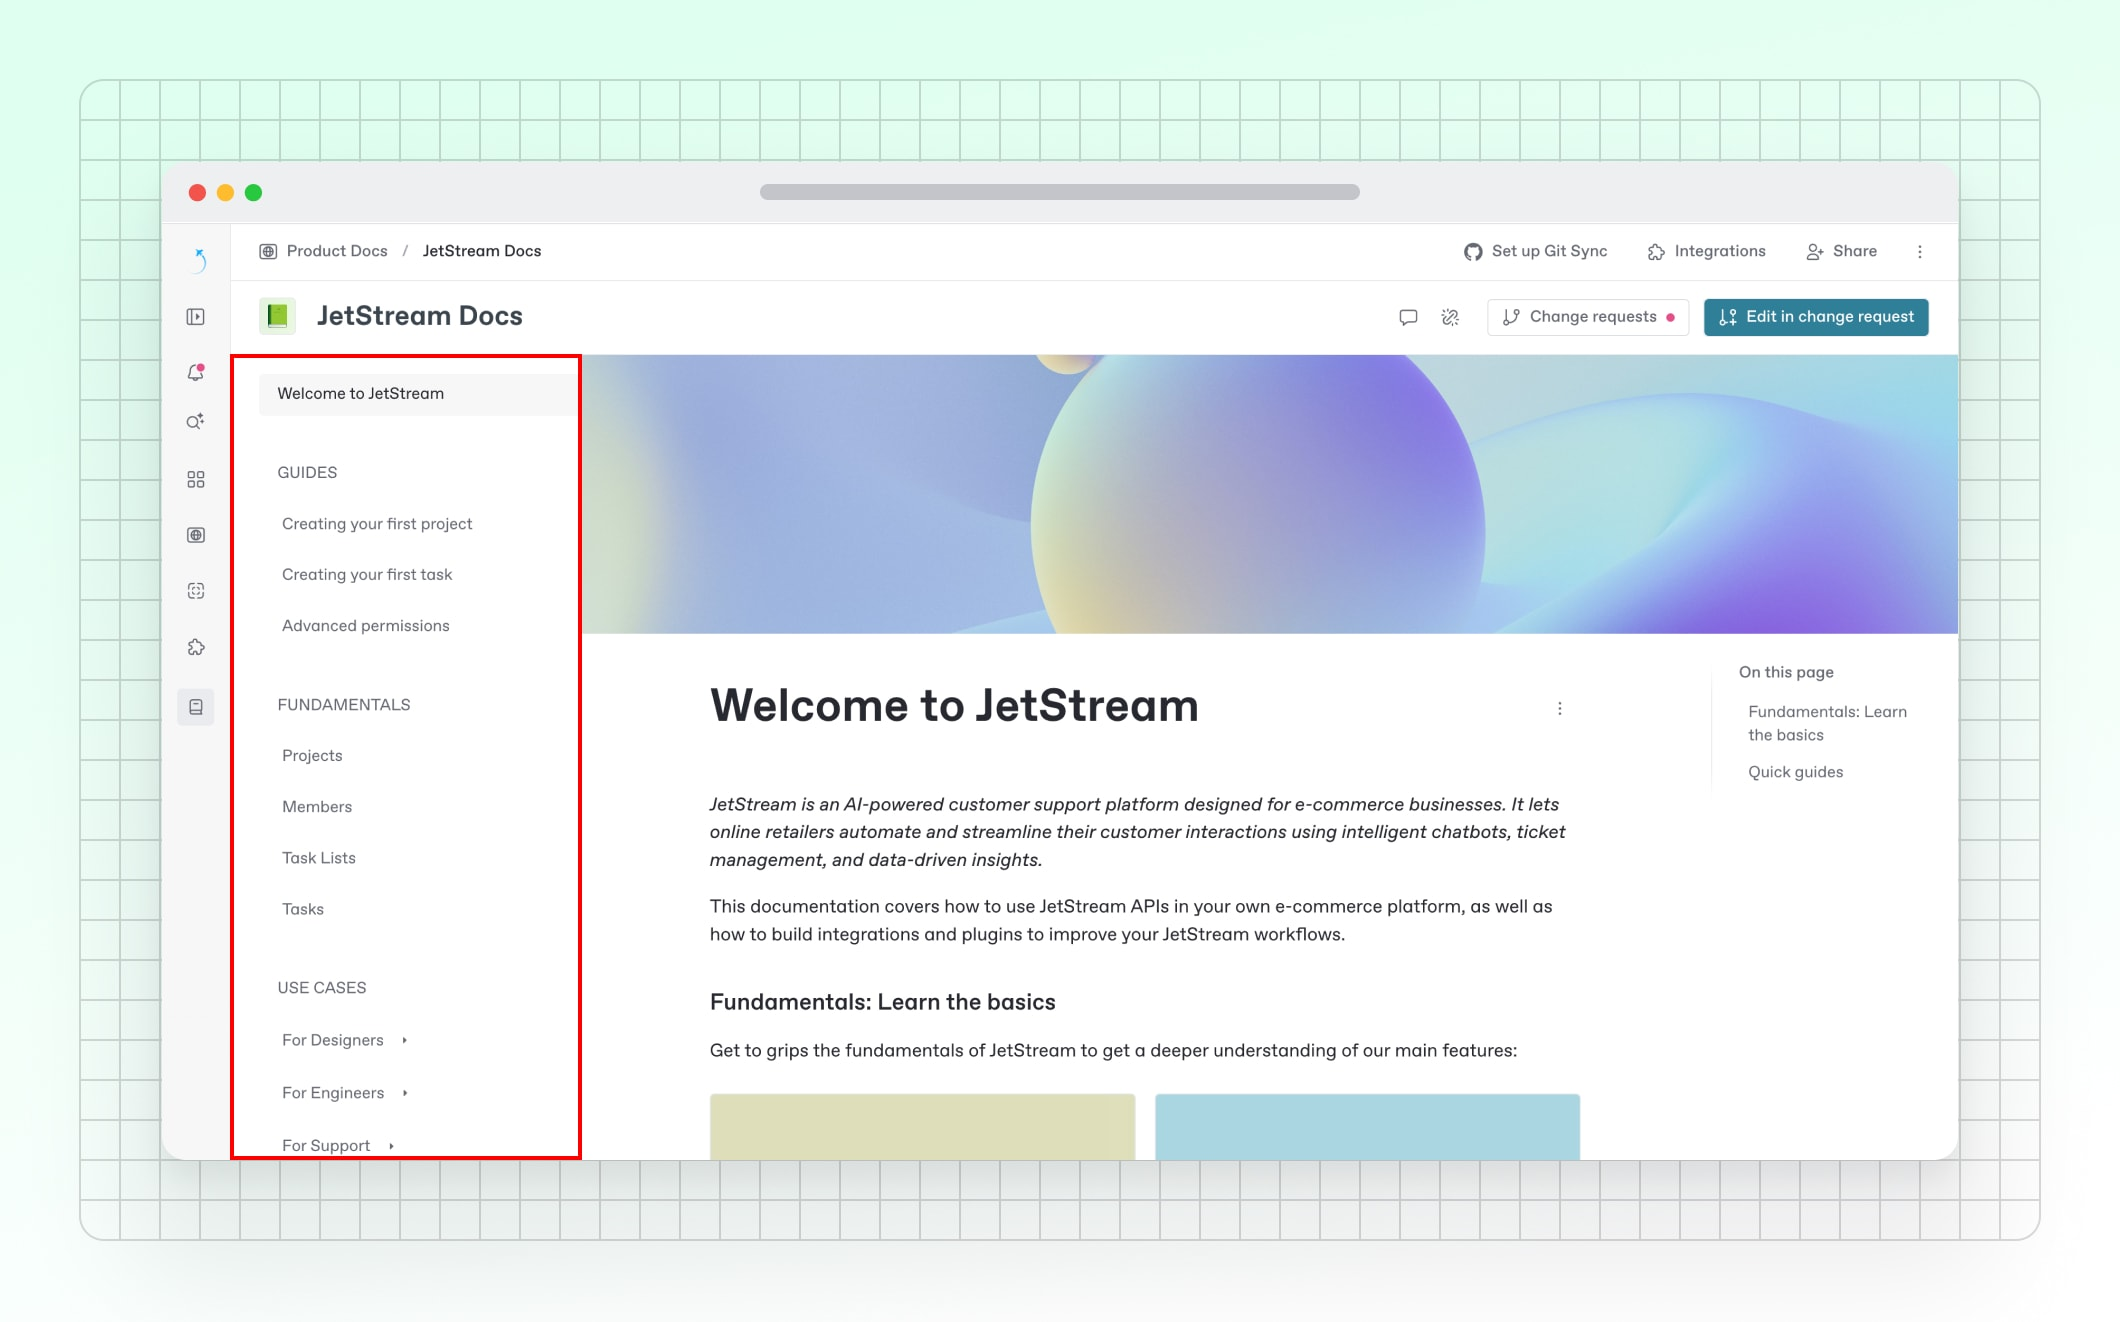
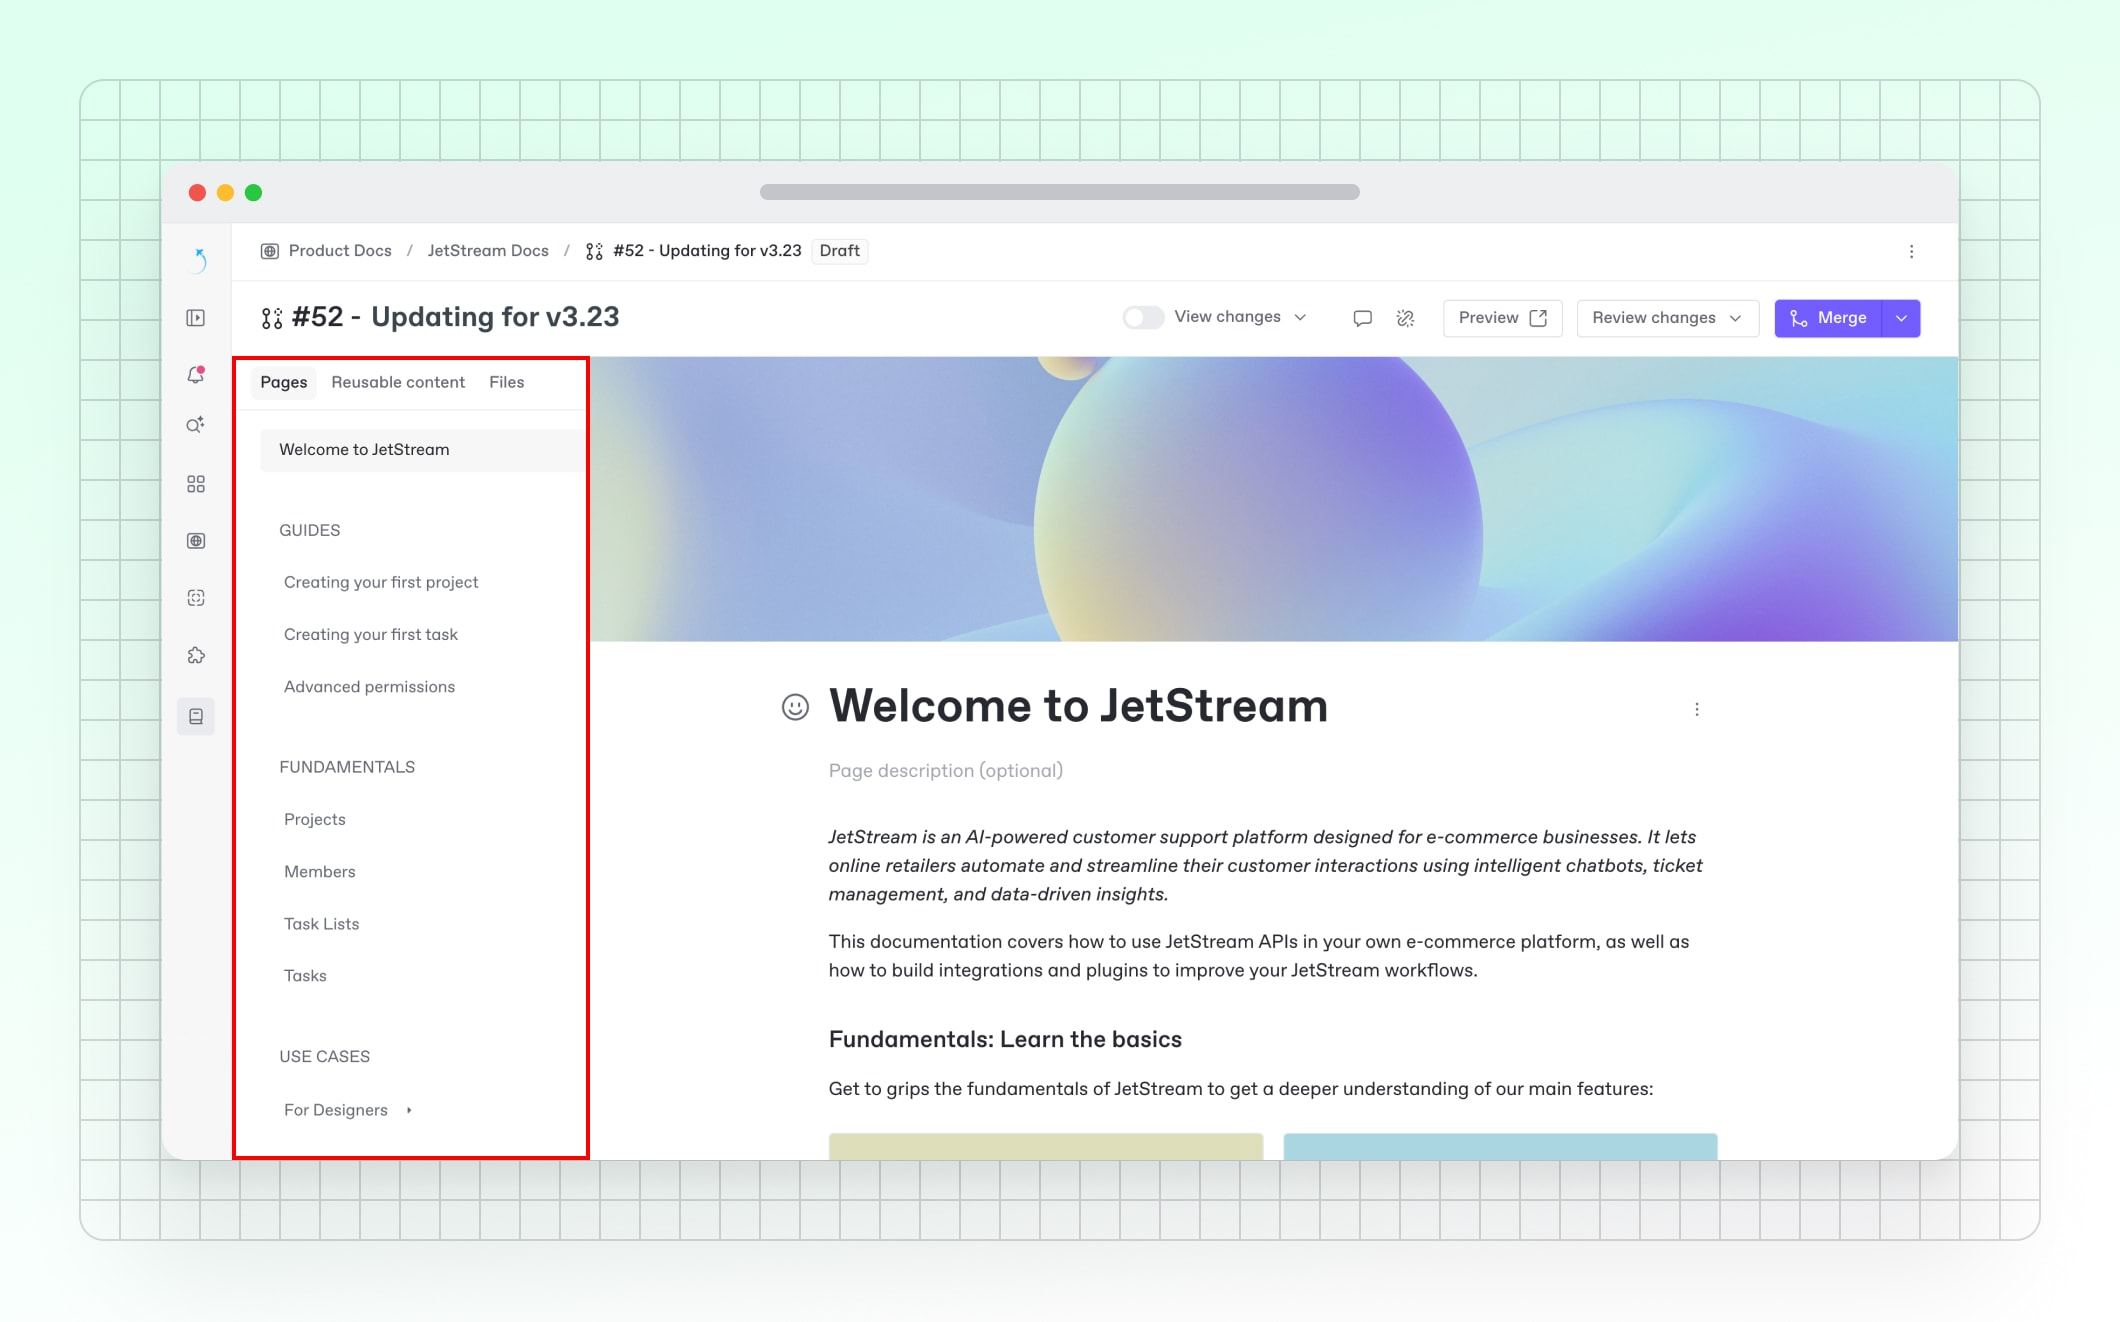
GITBOOK-480: No subject

diff --git a/resources/gitbook-ui.md b/resources/gitbook-ui.md
@@ -1,6 +1,6 @@
 ---
-description: Learn about the different components and UI in GitBook’s editor
 icon: sidebar
+description: Learn about the different components and UI in GitBook’s editor
 ---
 
 # GitBook UI
@@ -38,15 +38,30 @@ The sidebar allows you to see and overview of your GitBook organization at a gla
 
 <figure><img src="../.gitbook/assets/gitbook-ui-table-of-contents.jpg" alt=""><figcaption><p>The table of contents lists all the pages and links in your selected space.</p></figcaption></figure>
 
-The table of contents is a list of [pages, links, and groups](../creating-content/content-structure/page.md#organizing-your-content) that make up a space. You’ll find it to the right of the sidebar. It’s specific to the space you’re currently viewing.
+By default, the table of contents shows a list of [pages, links, and groups](../creating-content/content-structure/page.md#organizing-your-content) that make up a space. You’ll find it to the right of the sidebar. It’s specific to the space you’re currently viewing.
 
-From the table of contents you can:
+The table of contents is also where you can view and manage [resuable content](../creating-content/reusable-content.md) and [files](../creating-content/blocks/insert-files.md) for your space.
+
+From the **Pages** tab in the table of contents you can:
 
 * create new [pages](gitbook-ui.md#pages) and subpages
 * create [page groups](gitbook-ui.md#groups)
 * add [external links](gitbook-ui.md#external-links)
 * [import external docs](../getting-started/import.md) like websites or Markdown files
 * access [the Actions menu](gitbook-ui.md#the-actions-menu) <picture><source srcset="../.gitbook/assets/actions - dark.svg" media="(prefers-color-scheme: dark)"><img src="../.gitbook/assets/actions.svg" alt=""></picture> for individual pages.
+
+In the **Reusable content** tab, you can:
+
+* View and search through the reusable content in the space
+* Create new reusable content
+* Drag and drop reusable content onto the page
+* Rename and delete reusable content
+
+In the **Files** tab, you can:
+
+* View, search and reorder the files in your space
+* Drag and drop more files into your space
+* Manage individual files
 
 If you want to give more focus to the content of your page, you can temporarily hide the table of contents by hovering your cursor next to it and clicking the **Hide** button <picture><source srcset="../.gitbook/assets/panel close left - dark.svg" media="(prefers-color-scheme: dark)"><img src="../.gitbook/assets/panel close left.svg" alt=""></picture> that appears. To make it appear again, hover your cursor near the edge of the page and click the **Show** button <picture><source srcset="../.gitbook/assets/open panel - dark.svg" media="(prefers-color-scheme: dark)"><img src="../.gitbook/assets/open panel.svg" alt=""></picture>.
 
